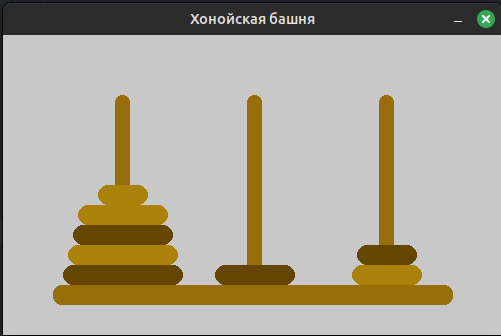
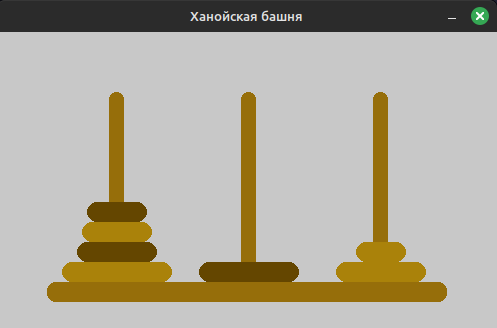
add stop execution

Changed region(s): [[0.0905, 0.2744, 0.9054, 0.9451], [0.0, 0.0, 1.0, 1.0]]

diff --git a/HanoiTower.py b/HanoiTower.py
@@ -10,6 +10,7 @@ class HanoiTower(object):
         self.color = (150, 110, 10)
         self.k = k
         self.selected = 0
+        self.run = False
         self.a = [[k - i for i in range(k)], [], []]
 
     def draw_towers(self):
@@ -28,6 +29,11 @@ class HanoiTower(object):
                 pygame.draw.rect(self.screen, color, (self.x + 50 - 5 * e + i * 132, h - 20 * hi - dh,
                                                       40 + 10 * e, 20), border_radius=10)
 
+        if self.run:
+            for event in pygame.event.get():
+                if event.type == pygame.KEYDOWN and event.key == pygame.K_RETURN:
+                    self.run = False
+
         pygame.display.flip()
 
     def move(self, n):
@@ -38,13 +44,21 @@ class HanoiTower(object):
             self.selected = 0
 
     def execute(self):
+        self.run = True
         for i in range(self.k, 0, -1):
             self._request(i, 2)
+        self.run = False
 
     def _request(self, k, move_to):
         move_from = [i for i in range(3) if k in self.a[i]][0]
 
+        if move_from == move_to:
+            return 0
+
         while not (k == self.a[move_from][-1] and (not self.a[move_to] or self.a[move_to][-1] >= k)):
+            if not self.run:
+                return 0
+
             if k != self.a[move_from][-1]:
                 self._request(self.a[move_from][self.a[move_from].index(k) + 1], 3 - move_to - move_from)
 
@@ -54,4 +68,4 @@ class HanoiTower(object):
         self.selected = move_from + 1
         self.move(move_to)
         self.draw_towers()
-        time.sleep(0.01)
+        time.sleep(0.03)

diff --git a/main.py b/main.py
@@ -6,12 +6,12 @@ pygame.init()
 screen = pygame.display.set_mode((500, 300))
 pygame.display.set_caption('Ханойская башня')
 
-honoyTower = HanoiTower(50, 250, 10, screen)
+hanoyTower = HanoiTower(50, 250, 5, screen)
 
 game = True
 while game:
 
-    honoyTower.draw_towers()
+    hanoyTower.draw_towers()
 
     for event in pygame.event.get():
         if event.type == pygame.QUIT:
@@ -19,10 +19,10 @@ while game:
 
         if event.type == pygame.MOUSEBUTTONDOWN:
             x, y = pygame.mouse.get_pos()
-            honoyTower.move(int(x / 500 * 3))
+            hanoyTower.move(int(x / 500 * 3))
 
         if event.type == pygame.KEYDOWN and event.key == pygame.K_RETURN:
-            honoyTower.execute()
+            hanoyTower.execute()
 
         if event.type == pygame.KEYDOWN and pygame.K_0 <= event.key <= pygame.K_9:
-            honoyTower = HanoiTower(50, 250, event.key - 48, screen)
+            hanoyTower = HanoiTower(50, 250, event.key - 48, screen)
